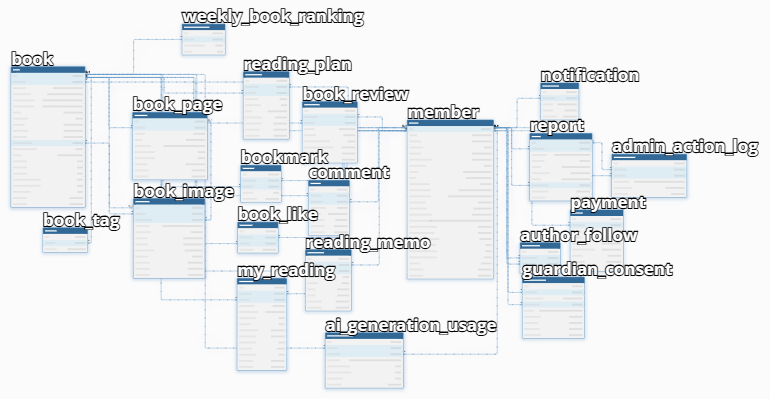
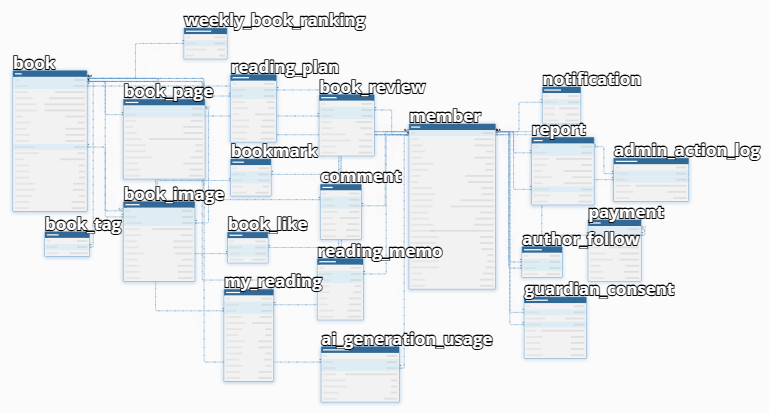
fix: Gemini 일시 과부하(503) 대비 Python 호출 재시도 로직 추가
Gemini API가 503 UNAVAILABLE로 응답할 때 즉시 실패 처리하던 것을,
AiService/AiImageService의 Python 호출에 지수 백오프 재시도(최대 3회)를
추가해 완화한다.

Changed region(s): [[0.0, 0.0, 0.9987, 0.9624]]

diff --git a/src/main/java/com/kosta/sangsangseoga/domain/ai/service/PythonCallRetrySupport.java b/src/main/java/com/kosta/sangsangseoga/domain/ai/service/PythonCallRetrySupport.java
@@ -1,0 +1,53 @@
+package com.kosta.sangsangseoga.domain.ai.service;
+
+import lombok.extern.slf4j.Slf4j;
+import org.springframework.http.HttpEntity;
+import org.springframework.http.HttpStatus;
+import org.springframework.http.ResponseEntity;
+import org.springframework.stereotype.Component;
+import org.springframework.web.client.HttpServerErrorException;
+import org.springframework.web.client.RestClientException;
+import org.springframework.web.client.RestTemplate;
+
+/**
+ * Gemini가 일시적으로 과부하(503 UNAVAILABLE)일 때 Python이 그대로 500/503으로 감싸 돌려주는데,
+ * 이런 응답은 몇 초 뒤 재시도하면 성공하는 경우가 많다. AiService/AiImageService가 Python을
+ * postForEntity로 호출하는 지점에서 공통으로 쓰는 재시도 로직을 여기 모아둔다.
+ * 4xx(HttpClientErrorException)는 요청 자체의 문제라 재시도 대상이 아니고, 호출부에서 그대로 잡는다.
+ */
+@Slf4j
+@Component
+class PythonCallRetrySupport {
+
+    private static final int MAX_ATTEMPTS = 3;
+    private static final long BASE_BACKOFF_MS = 1000L;
+
+    <T> ResponseEntity<T> postForEntityWithRetry(RestTemplate restTemplate, String url, HttpEntity<?> entity,
+                                                  Class<T> responseType, String requestId) {
+        for (int attempt = 1; attempt <= MAX_ATTEMPTS; attempt++) {
+            try {
+                return restTemplate.postForEntity(url, entity, responseType);
+            } catch (HttpServerErrorException e) {
+                boolean retryable = e.getStatusCode() == HttpStatus.SERVICE_UNAVAILABLE
+                        || e.getStatusCode() == HttpStatus.GATEWAY_TIMEOUT;
+                if (!retryable || attempt == MAX_ATTEMPTS) {
+                    throw e;
+                }
+                long backoffMs = BASE_BACKOFF_MS * (1L << (attempt - 1));
+                log.warn("Python 호출 일시 실패, 재시도합니다: requestId={} attempt={}/{} status={} backoffMs={}",
+                        requestId, attempt, MAX_ATTEMPTS, e.getStatusCode(), backoffMs);
+                sleep(backoffMs);
+            }
+        }
+        throw new IllegalStateException("도달할 수 없는 상태");
+    }
+
+    private void sleep(long ms) {
+        try {
+            Thread.sleep(ms);
+        } catch (InterruptedException ie) {
+            Thread.currentThread().interrupt();
+            throw new RestClientException("Python 호출 재시도 대기 중 인터럽트됨", ie);
+        }
+    }
+}

diff --git a/src/main/java/com/kosta/sangsangseoga/domain/ai/service/AiImageService.java b/src/main/java/com/kosta/sangsangseoga/domain/ai/service/AiImageService.java
@@ -55,6 +55,7 @@ public class AiImageService {
     private final DataSource dataSource;
     private final AiImageStorageService aiImageStorageService;
     private final UsageService usageService;
+    private final PythonCallRetrySupport pythonCallRetrySupport;
 
     private RestTemplate restTemplate;
 
@@ -113,8 +114,8 @@ public class AiImageService {
             AiGenerateImageResponseDto response;
             long t1 = System.nanoTime();
             try {
-                ResponseEntity<AiGenerateImageResponseDto> result = restTemplate.postForEntity(
-                        url, new HttpEntity<>(request, headers), AiGenerateImageResponseDto.class);
+                ResponseEntity<AiGenerateImageResponseDto> result = pythonCallRetrySupport.postForEntityWithRetry(
+                        restTemplate, url, new HttpEntity<>(request, headers), AiGenerateImageResponseDto.class, requestId);
                 pythonCallMs = elapsedMs(t1);
                 httpStatus = result.getStatusCodeValue();
                 response = result.getBody();

diff --git a/src/main/java/com/kosta/sangsangseoga/domain/ai/service/AiService.java b/src/main/java/com/kosta/sangsangseoga/domain/ai/service/AiService.java
@@ -54,6 +54,7 @@ public class AiService {
 	private final ObjectMapper objectMapper;
 	private final DataSource dataSource;
 	private final UsageService usageService;
+	private final PythonCallRetrySupport pythonCallRetrySupport;
 
 	private RestTemplate restTemplate;
 
@@ -98,8 +99,8 @@ public class AiService {
 			Map<String, Object> fastApiResponse;
 			long t1 = System.nanoTime();
 			try {
-				ResponseEntity<Map> response = restTemplate.postForEntity(
-						url, new HttpEntity<>(pythonRequestBody, headers), Map.class);
+				ResponseEntity<Map> response = pythonCallRetrySupport.postForEntityWithRetry(
+						restTemplate, url, new HttpEntity<>(pythonRequestBody, headers), Map.class, requestId);
 				pythonCallMs = elapsedMs(t1);
 				httpStatus = response.getStatusCodeValue();
 				fastApiResponse = response.getBody();